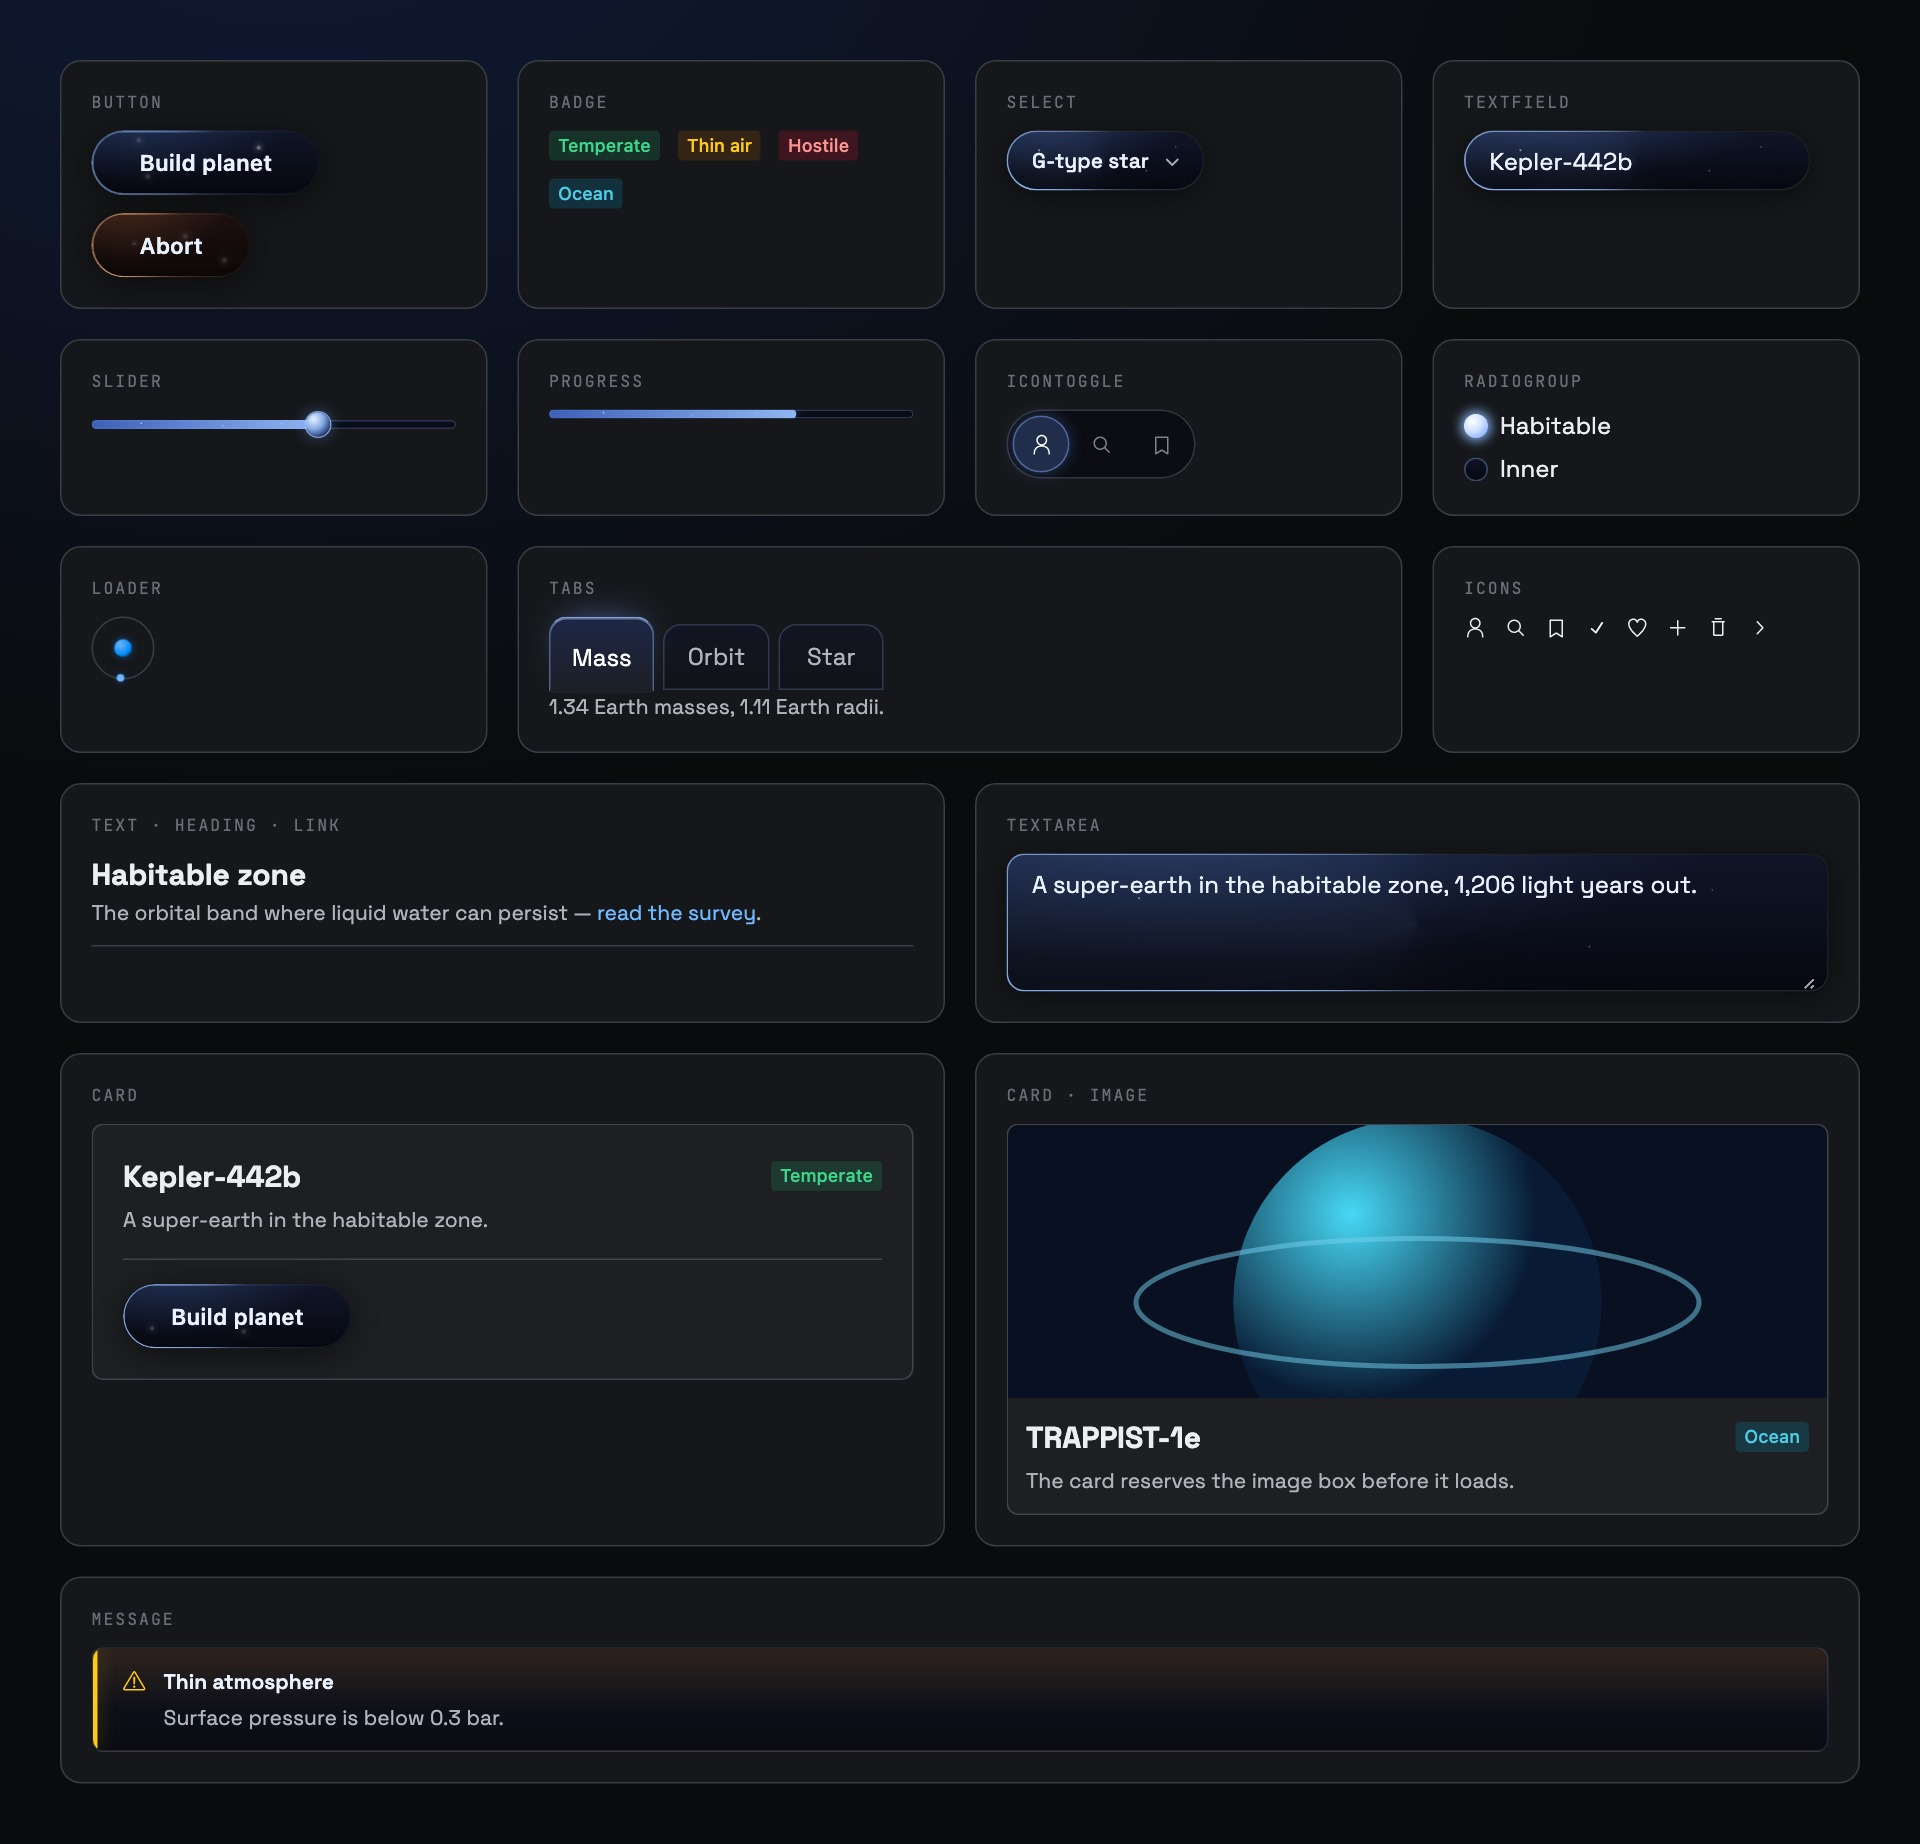
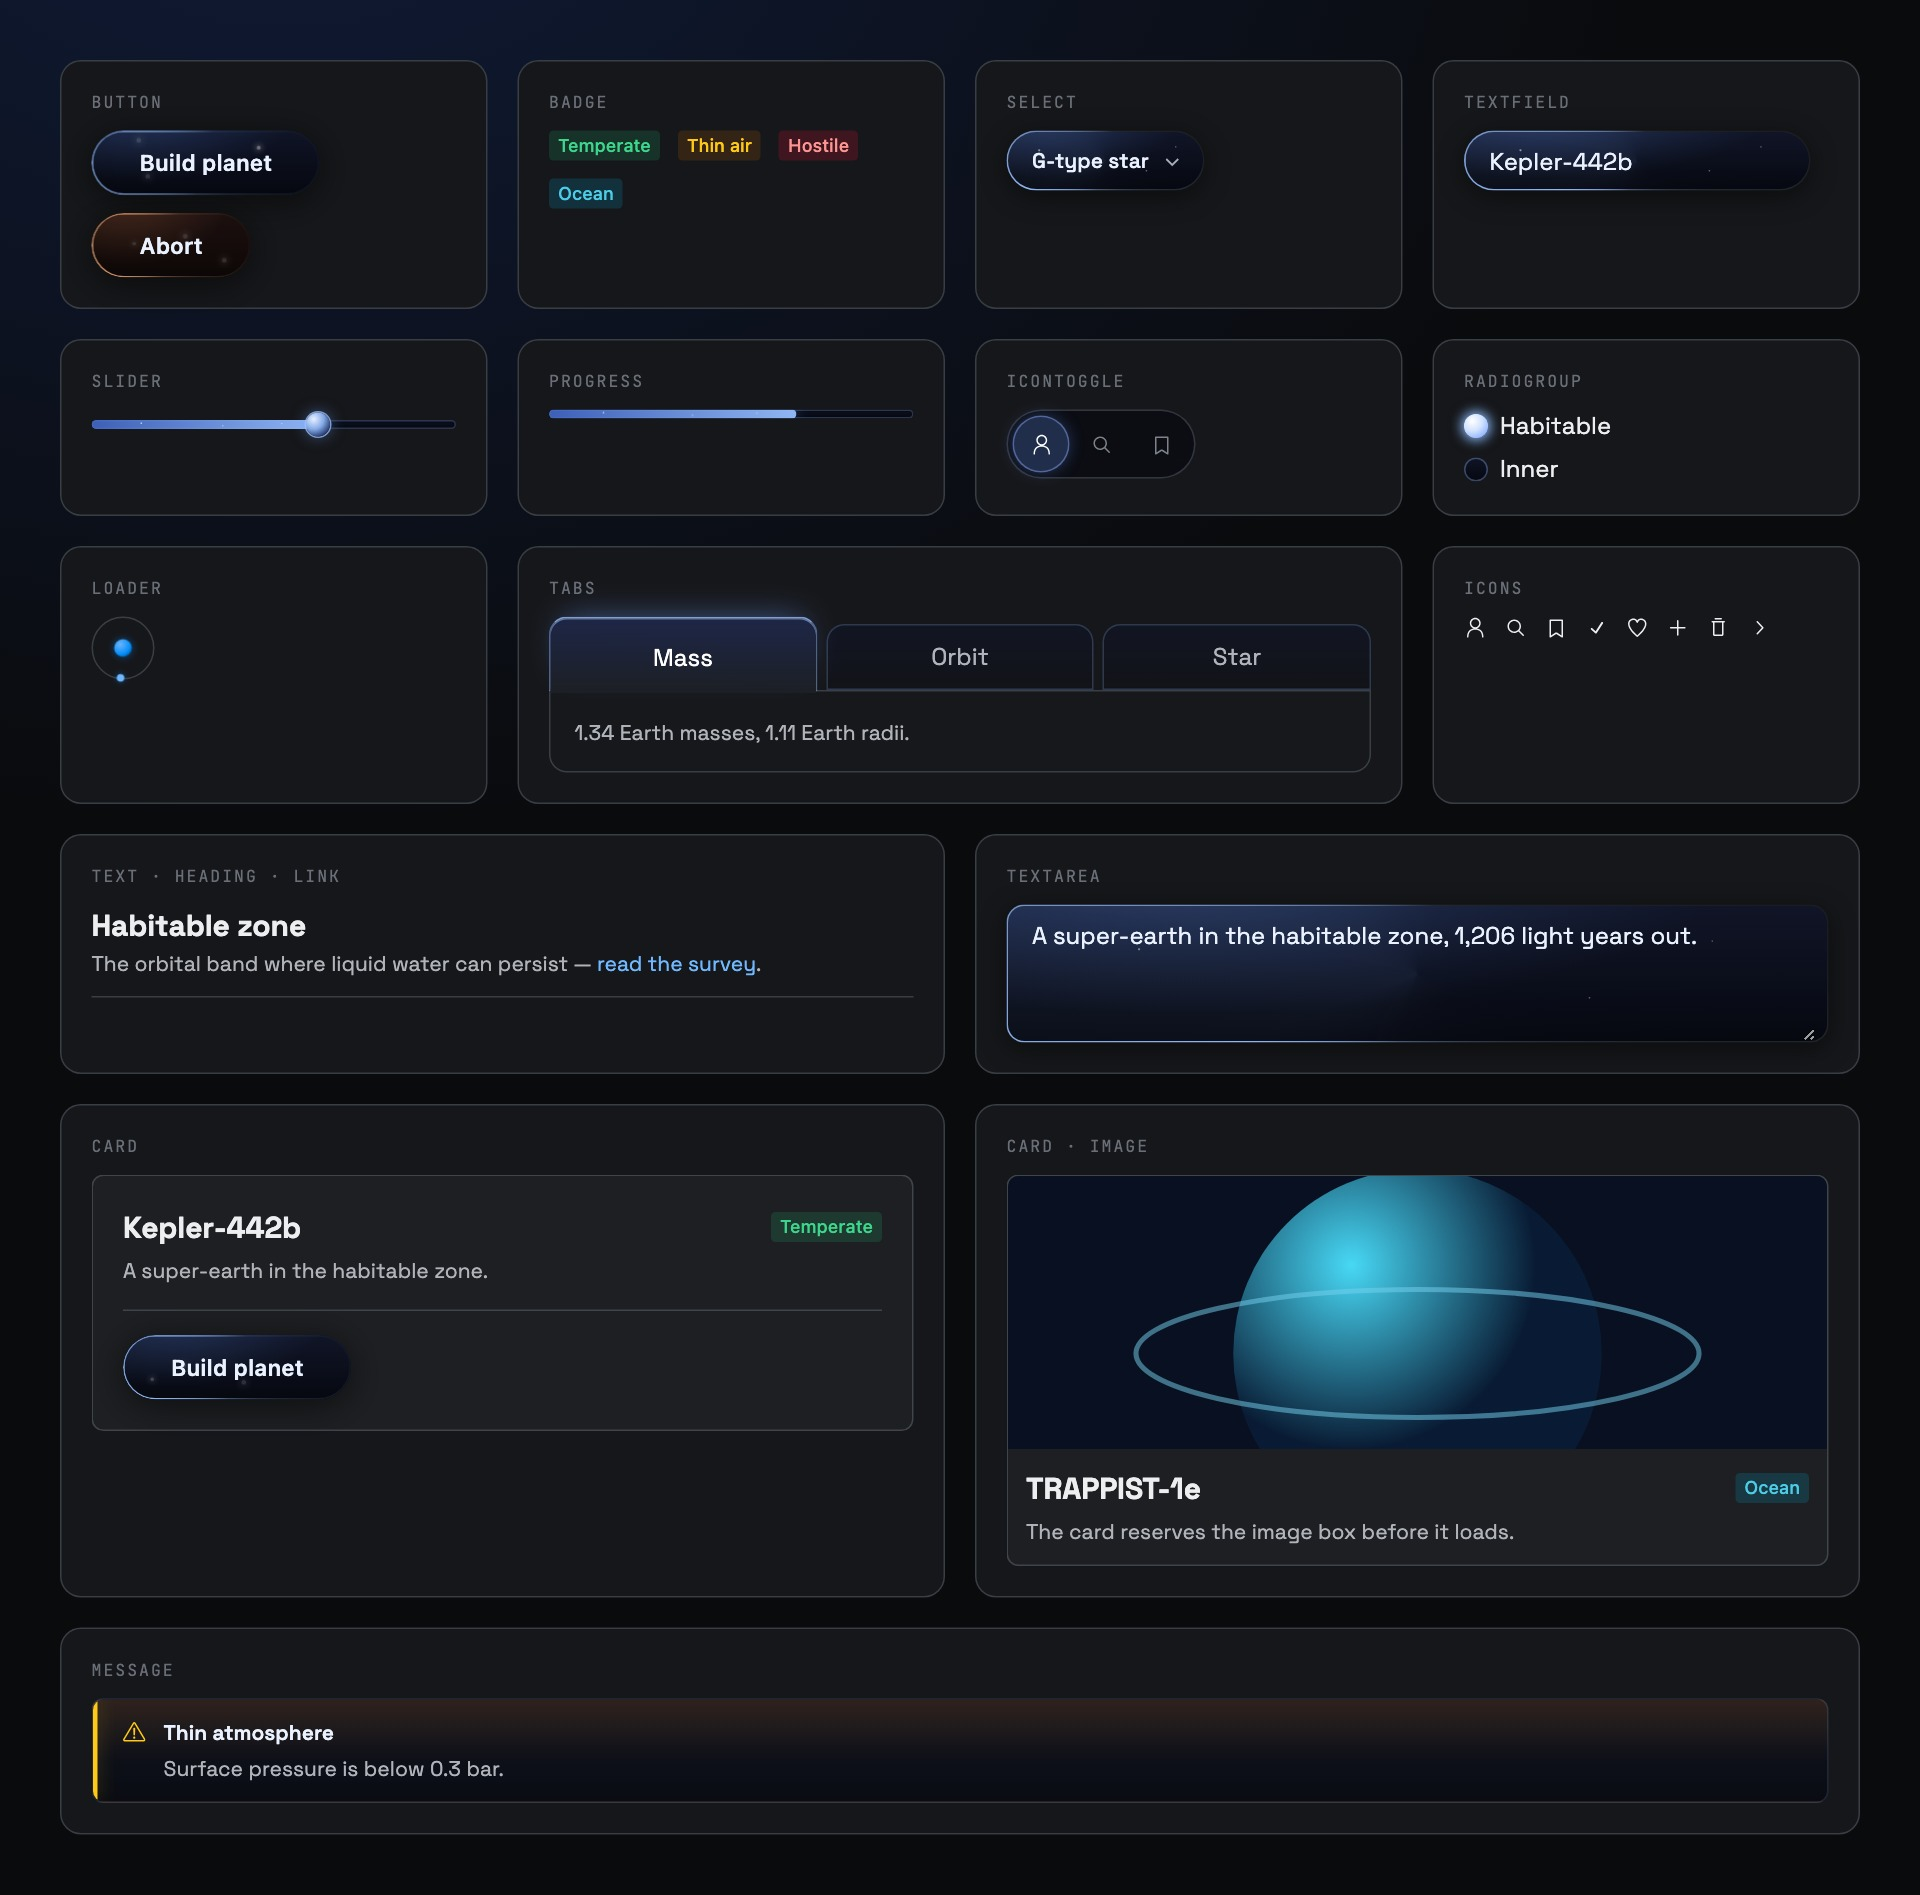
Make the stickersheet fit the page it is on
The sheet was pinned to 1200px wide with a 40px inset and its own lit
backdrop. All three existed so the README capture would be reproducible and
well framed, and all three were wrong on the gallery page: it ran off the side
of any narrower window, sat inside a gutter the page had already given it, and
drew a blue box around itself against a ground that was already there.

It is fluid now, capped at 1200px so the shot is unchanged, and collapses to
two columns then one as the width drops. The inset and the backdrop moved into
the capture script, beside the rule that hides the preview-mode escape hatch —
they belong to the photograph, not the subject.

The Tabs cell also stops looking like a mistake. These are folder tabs: they
seat onto the surface below and the active one breaks through its top line, so
with nothing beneath them they floated and the whole point was invisible. It
now gets the same panel the Tabs story uses, and fills its cell rather than
sizing to the width of three words.

diff --git a/apps/docs/.ladle/space.css b/apps/docs/.ladle/space.css
@@ -1895,23 +1895,41 @@ nav.ladle-aside a:focus-visible {
    capture: a fixed measure so the shot is reproducible rather than dependent
    on whatever width the browser happened to have. */
 .docs-sheet {
-  width: 1200px;
-  padding: 40px;
+  /* Fluid, capped. It was a hard 1200px so the capture would be reproducible,
+     which also meant it ran off the side of any narrower gallery window. The
+     cap keeps the shot identical — the capture viewport is wider than this —
+     while letting the page decide below it. */
+  width: 100%;
+  max-width: 1200px;
   /* The library sets no font-family — every component inherits the host's.
      The capture runs in preview mode, outside the docs shell, so without this
      the whole sheet fell back to the browser's default serif and misrepresented
      what the components look like in a real app. */
   font-family: var(--docs-font-display);
   color: var(--docs-text);
-  background:
-    radial-gradient(120% 90% at 15% -10%, rgba(20, 40, 90, 0.55), transparent 60%),
-    var(--docs-void);
+  /* No ground and no inset of its own. Both exist for the README capture: on
+     the gallery page they painted a blue box around the sheet and pushed it
+     off its own gutter, when the page already supplies both. The capture
+     script adds them, so they exist only where they are wanted. */
 }
 
 .docs-sheet__grid {
   display: grid;
   grid-template-columns: repeat(4, minmax(0, 1fr));
   gap: 20px;
+}
+
+/* Below four columns a two-wide cell would be the whole row, and a full-width
+   one already is, so both collapse to the single span the row can hold. */
+@media (max-width: 1000px) {
+  .docs-sheet__grid { grid-template-columns: repeat(2, minmax(0, 1fr)); }
+}
+
+@media (max-width: 620px) {
+  .docs-sheet__grid { grid-template-columns: minmax(0, 1fr); }
+  .docs-sheet__cell[data-wide],
+  .docs-sheet__cell[data-full] { grid-column: auto; }
+  .docs-sheet__cell[data-tall] { grid-row: auto; }
 }
 
 .docs-sheet__cell {
@@ -1938,6 +1956,15 @@ nav.ladle-aside a:focus-visible {
 }
 
 .docs-sheet__cell[data-full] .docs-sheet__stage { display: block; width: 100%; }
+
+/* Folder tabs seat onto the surface below them; with nothing there they float
+   and the design reads as a mistake. Same panel the Tabs story uses. */
+.docs-sheet__tabspanel {
+  background: var(--sp-tabs-surface-color);
+  border: 1px solid var(--sp-gray-border);
+  border-radius: 0 0 12px 12px;
+  padding: 16px;
+}
 
 /* Wrap rather than clip: a row of badges is the point of the Badge cell. */
 .docs-sheet__stage {

diff --git a/apps/docs/src/stickersheet.stories.tsx b/apps/docs/src/stickersheet.stories.tsx
@@ -107,18 +107,20 @@ export const Stickersheet = () => {
           <Loader />
         </Cell>
 
-        <Cell label="Tabs" wide>
+        <Cell label="Tabs" wide fill>
           <Tabs value={tab} onValueChange={setTab}>
             <Tabs.List>
               <Tabs.Trigger value="mass">Mass</Tabs.Trigger>
               <Tabs.Trigger value="orbit">Orbit</Tabs.Trigger>
               <Tabs.Trigger value="star">Star</Tabs.Trigger>
             </Tabs.List>
-            <Tabs.Content value="mass">
-              <Text size="2" color="muted">
-                1.34 Earth masses, 1.11 Earth radii.
-              </Text>
-            </Tabs.Content>
+            <div className="docs-sheet__tabspanel">
+              <Tabs.Content value="mass">
+                <Text size="2" color="muted">
+                  1.34 Earth masses, 1.11 Earth radii.
+                </Text>
+              </Tabs.Content>
+            </div>
           </Tabs>
         </Cell>
 
